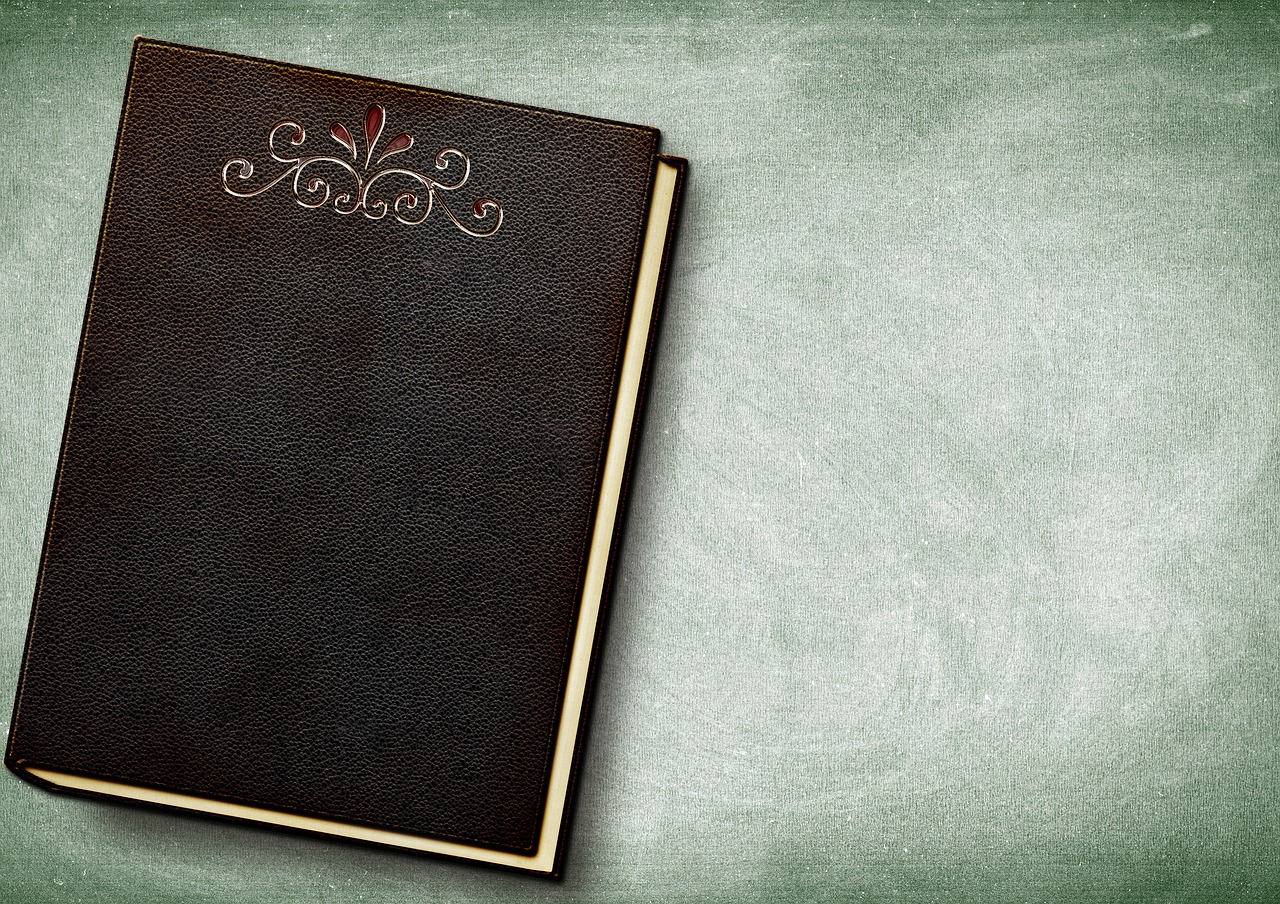
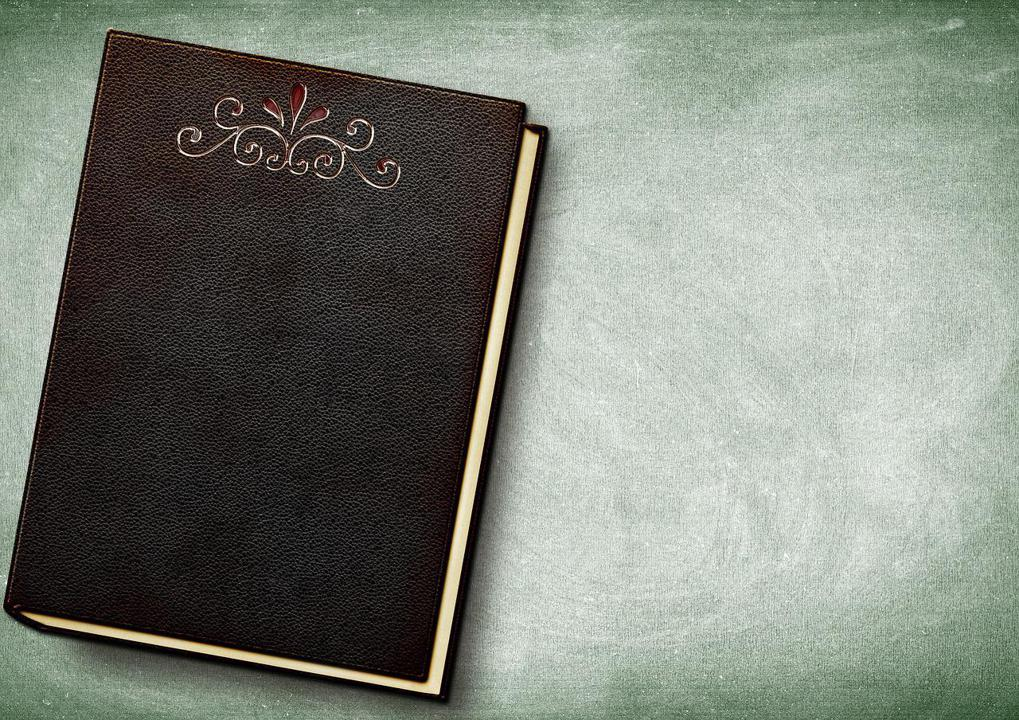
Add command resizing images and resize default images

diff --git a/commands/resize-images.py b/commands/resize-images.py
@@ -1,0 +1,20 @@
+import os
+from PIL import Image
+
+images_path = 'assets/media/book_images/'
+requested_dimensions = {
+    'width': 1280,
+    'height': 720
+}
+
+fixturesNames = os.listdir(images_path)
+fixturesNames.sort()
+
+for name in fixturesNames:
+    image = Image.open(images_path + name)
+    image.thumbnail(size=(requested_dimensions['width'], requested_dimensions['height']))
+    image.save(images_path + name)
+    print('resized ' + name + ' to:')
+    print(image.size)
+
+
